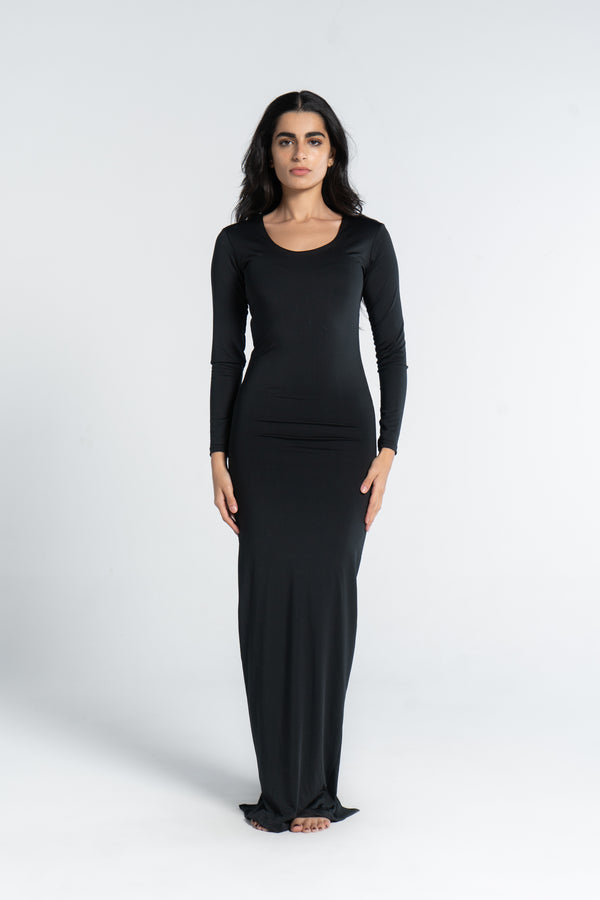
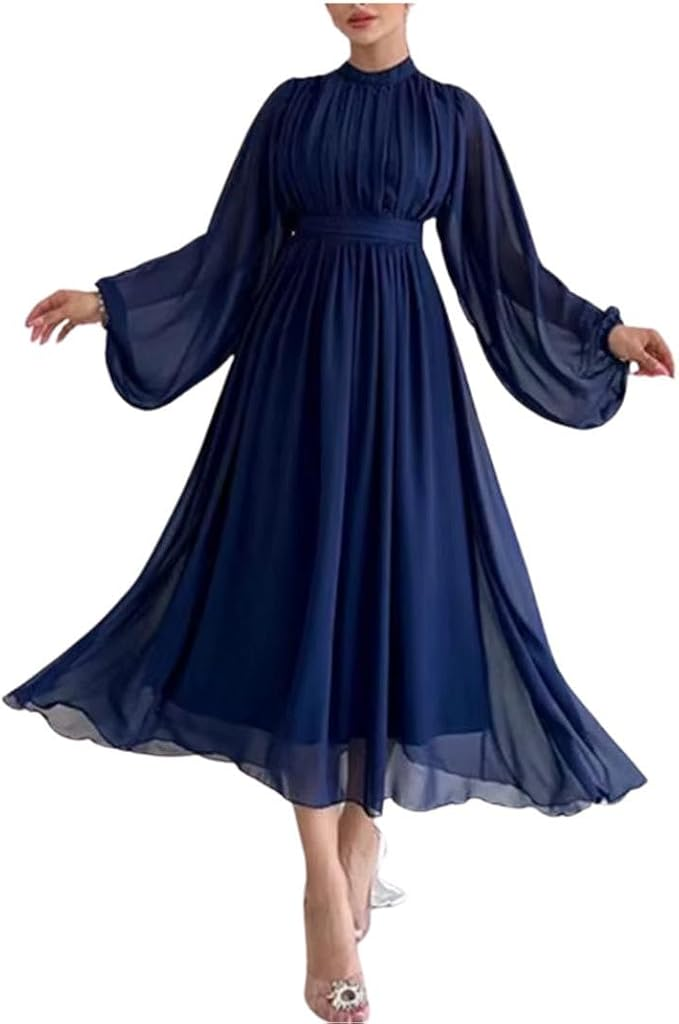
Add files via upload

diff --git a/script.js b/script.js
@@ -66,7 +66,7 @@ const products = [
         price: 199.99,
         originalPrice: 249.99,
         category: "men",
-        image: "https://images.unsplash.com/photo-1551028719-00167b16eac5?w=400&h=500&fit=crop",
+        image: "Product Image/جاكت.jpg",
         badge: "محدود",
         rating: 4.9,
         reviews: 89
@@ -86,7 +86,7 @@ const products = [
         price: 299.99,
         originalPrice: 399.99,
         category: "men",
-        image: "https://images.unsplash.com/photo-1594938298603-c8148c4dae35?w=400&h=500&fit=crop",
+        image: "Product Image/بدلة رجالي.jpg",
         badge: "عرض خاص",
         rating: 4.8,
         reviews: 56
@@ -104,10 +104,10 @@ const products = [
     },
     {
         id: 11,
-        name: "كنزة أطفال",
+        name: "سويت شيرت أطفال",
         price: 45.99,
         category: "kids",
-        image: "https://images.unsplash.com/photo-1519457431-44ccd64a579b?w=400&h=500&fit=crop",
+        image: "Product Image/سويت شيرت.jpg",
         badge: "شتوي",
         rating: 4.3,
         reviews: 19
@@ -117,7 +117,7 @@ const products = [
         name: "قميص رجالي كاجوال",
         price: 79.99,
         category: "men",
-        image: "https://images.unsplash.com/photo-1602810318383-e386cc2a3ccf?w=400&h=500&fit=crop",
+        image: "Product Image/قميص كاجول.jpg",
         rating: 4.4,
         reviews: 38
     },
@@ -127,7 +127,7 @@ const products = [
         price: 99.99,
         originalPrice: 129.99,
         category: "women",
-        image: "https://images.unsplash.com/photo-1541099649105-f69ad21f3246?w=400&h=500&fit=crop",
+        image: "Product Image/بنطلون جينز نسائي.jpg",
         badge: "الأكثر مبيعاً",
         rating: 4.7,
         reviews: 78
@@ -137,25 +137,25 @@ const products = [
         name: "حذاء أطفال رياضي",
         price: 65.99,
         category: "kids",
-        image: "https://images.unsplash.com/photo-1542291026-7eec264c27ff?w=400&h=500&fit=crop",
+        image: "Product Image/حذاء.jpg",
         badge: "جديد",
         rating: 4.5,
         reviews: 24
     },
     {
         id: 15,
-        name: "سواريت رجالي",
+        name: "بلوفر رجالي",
         price: 159.99,
         originalPrice: 209.99,
         category: "men",
-        image: "https://images.unsplash.com/photo-1591047139829-d91aecb6caea?w=400&h=500&fit=crop",
+        image: "Product Image/بلوفر.jpg",
         badge: "عرض",
         rating: 4.6,
         reviews: 31
     },
     {
         id: 16,
-        name: "فستان",
+        name: "فستان ميدي",
         price: 249.99,
         originalPrice: 329.99,
         category: "women",
@@ -166,21 +166,21 @@ const products = [
     },
     {
         id: 17,
-        name: "ملابس سباحة أطفال",
+        name: "بدلة سباحة أطفال",
         price: 35.99,
         category: "kids",
-        image: "https://images.unsplash.com/photo-1519457431-44ccd64a579b?w=400&h=500&fit=crop",
+        image: "Product Image/ملابس سباحة اطفالي.jpg",
         badge: "صيفي",
         rating: 4.2,
         reviews: 15
     },
     {
         id: 18,
-        name: "معطف شتوي رجالي",
+        name: "جاكت كوخ رجالي",
         price: 349.99,
         originalPrice: 449.99,
         category: "men",
-        image: "https://images.unsplash.com/photo-1551028719-00167b16eac5?w=400&h=500&fit=crop",
+        image: "Product Image/بالطو.jpg",
         badge: "محدود",
         rating: 4.8,
         reviews: 47
@@ -190,7 +190,7 @@ const products = [
         name: "شال نسائي",
         price: 29.99,
         category: "women",
-        image: "https://images.unsplash.com/photo-1548036328-c9fa89d128fa?w=400&h=500&fit=crop",
+        image: "Product Image/شال.jpg",
         rating: 4.3,
         reviews: 29
     },
@@ -199,7 +199,7 @@ const products = [
         name: "طاقية أطفال",
         price: 19.99,
         category: "kids",
-        image: "https://images.unsplash.com/photo-1523381134737-8e0e921956bd?w=400&h=500&fit=crop",
+        image: "Product Image/طاقية.jpg",
         badge: "جديد",
         rating: 4.1,
         reviews: 22
@@ -210,7 +210,7 @@ const products = [
         price: 89.99,
         originalPrice: 119.99,
         category: "men",
-        image: "https://images.unsplash.com/photo-1553062407-98eeb64c6a62?w=400&h=500&fit=crop",
+        image: "Product Image/حقيبة رجالي.jpg",
         badge: "عرض",
         rating: 4.5,
         reviews: 41
@@ -220,7 +220,7 @@ const products = [
         name: "حذاء كعب عالي",
         price: 129.99,
         category: "women",
-        image: "https://images.unsplash.com/photo-1543163521-1bf539c55dd2?w=400&h=500&fit=crop",
+        image: "Product Image/كعب.jpg",
         badge: "أنيق",
         rating: 4.7,
         reviews: 58
@@ -230,7 +230,7 @@ const products = [
         name: "حقيبة ظهر أطفال",
         price: 39.99,
         category: "kids",
-        image: "https://images.unsplash.com/photo-1553062407-98eeb64c6a62?w=400&h=500&fit=crop",
+        image: "Product Image/حقيبة.jpg",
         rating: 4.4,
         reviews: 17
     },
@@ -240,7 +240,7 @@ const products = [
         price: 49.99,
         originalPrice: 69.99,
         category: "men",
-        image: "https://images.unsplash.com/photo-1572635196237-14b3f281503f?w=400&h=500&fit=crop",
+        image: "Product Image/نظارة.jpg",
         badge: "صيفي",
         rating: 4.6,
         reviews: 33

diff --git a/faq.html b/faq.html
@@ -479,10 +479,10 @@
                 <div class="footer-section">
                     <h3>تابعنا</h3>
                     <div class="social-icons">
-                        <a href="#"><i class="fab fa-facebook"></i></a>
-                        <a href="#"><i class="fab fa-twitter"></i></a>
-                        <a href="#"><i class="fab fa-instagram"></i></a>
-                        <a href="#"><i class="fab fa-tiktok"></i></a>
+                        <a href="https://www.facebook.com/share/17KCqhuJE2/"><i class="fab fa-facebook"></i></a>
+                        <a href="https://x.com/_MohsenNady_"><i class="fab fa-twitter"></i></a>
+                        <a href="https://www.instagram.com/mohsen_nady_111?igsh=dzluYWIzdmtlb3A3"><i class="fab fa-instagram"></i></a>
+                        <a href="https://www.tiktok.com/@mohsen_nady?_r=1&_t=ZS-945EqpImLYu"><i class="fab fa-tiktok"></i></a>
                     </div>
                     <div class="newsletter">
                         <input type="email" placeholder="اشترك في النشرة البريدية">

diff --git a/login.html b/login.html
@@ -208,10 +208,10 @@
                 <div class="footer-section">
                     <h3>تابعنا</h3>
                     <div class="social-icons">
-                        <a href="#"><i class="fab fa-facebook"></i></a>
-                        <a href="#"><i class="fab fa-twitter"></i></a>
-                        <a href="#"><i class="fab fa-instagram"></i></a>
-                        <a href="#"><i class="fab fa-tiktok"></i></a>
+                        <a href="https://www.facebook.com/share/17KCqhuJE2/"><i class="fab fa-facebook"></i></a>
+                        <a href="https://x.com/_MohsenNady_"><i class="fab fa-twitter"></i></a>
+                        <a href="https://www.instagram.com/mohsen_nady_111?igsh=dzluYWIzdmtlb3A3"><i class="fab fa-instagram"></i></a>
+                        <a href="https://www.tiktok.com/@mohsen_nady?_r=1&_t=ZS-945EqpImLYu"><i class="fab fa-tiktok"></i></a>
                     </div>
                     <div class="newsletter">
                         <input type="email" placeholder="اشترك في النشرة البريدية">

diff --git a/register.html b/register.html
@@ -243,10 +243,10 @@
                 <div class="footer-section">
                     <h3>تابعنا</h3>
                     <div class="social-icons">
-                        <a href="#"><i class="fab fa-facebook"></i></a>
-                        <a href="#"><i class="fab fa-twitter"></i></a>
-                        <a href="#"><i class="fab fa-instagram"></i></a>
-                        <a href="#"><i class="fab fa-tiktok"></i></a>
+                        <a href="https://www.facebook.com/share/17KCqhuJE2/"><i class="fab fa-facebook"></i></a>
+                        <a href="https://x.com/_MohsenNady_"><i class="fab fa-twitter"></i></a>
+                        <a href="https://www.instagram.com/mohsen_nady_111?igsh=dzluYWIzdmtlb3A3"><i class="fab fa-instagram"></i></a>
+                        <a href="https://www.tiktok.com/@mohsen_nady?_r=1&_t=ZS-945EqpImLYu"><i class="fab fa-tiktok"></i></a>
                     </div>
                     <div class="newsletter">
                         <input type="email" placeholder="اشترك في النشرة البريدية">

diff --git a/return.html b/return.html
@@ -364,10 +364,10 @@
                 <div class="footer-section">
                     <h3>تابعنا</h3>
                     <div class="social-icons">
-                        <a href="#"><i class="fab fa-facebook"></i></a>
-                        <a href="#"><i class="fab fa-twitter"></i></a>
-                        <a href="#"><i class="fab fa-instagram"></i></a>
-                        <a href="#"><i class="fab fa-tiktok"></i></a>
+                        <a href="https://www.facebook.com/share/17KCqhuJE2/"><i class="fab fa-facebook"></i></a>
+                        <a href="https://x.com/_MohsenNady_"><i class="fab fa-twitter"></i></a>
+                        <a href="https://www.instagram.com/mohsen_nady_111?igsh=dzluYWIzdmtlb3A3"><i class="fab fa-instagram"></i></a>
+                        <a href="https://www.tiktok.com/@mohsen_nady?_r=1&_t=ZS-945EqpImLYu"><i class="fab fa-tiktok"></i></a>
                     </div>
                     <div class="newsletter">
                         <input type="email" placeholder="اشترك في النشرة البريدية">

diff --git a/shipping.html b/shipping.html
@@ -336,10 +336,10 @@
                 <div class="footer-section">
                     <h3>تابعنا</h3>
                     <div class="social-icons">
-                        <a href="#"><i class="fab fa-facebook"></i></a>
-                        <a href="#"><i class="fab fa-twitter"></i></a>
-                        <a href="#"><i class="fab fa-instagram"></i></a>
-                        <a href="#"><i class="fab fa-tiktok"></i></a>
+                        <a href="https://www.facebook.com/share/17KCqhuJE2/"><i class="fab fa-facebook"></i></a>
+                        <a href="https://x.com/_MohsenNady_"><i class="fab fa-twitter"></i></a>
+                        <a href="https://www.instagram.com/mohsen_nady_111?igsh=dzluYWIzdmtlb3A3"><i class="fab fa-instagram"></i></a>
+                        <a href="https://www.tiktok.com/@mohsen_nady?_r=1&_t=ZS-945EqpImLYu"><i class="fab fa-tiktok"></i></a>
                     </div>
                     <div class="newsletter">
                         <input type="email" placeholder="اشترك في النشرة البريدية">

diff --git a/tracking.html b/tracking.html
@@ -396,10 +396,10 @@
                 <div class="footer-section">
                     <h3>تابعنا</h3>
                     <div class="social-icons">
-                        <a href="#"><i class="fab fa-facebook"></i></a>
-                        <a href="#"><i class="fab fa-twitter"></i></a>
-                        <a href="#"><i class="fab fa-instagram"></i></a>
-                        <a href="#"><i class="fab fa-tiktok"></i></a>
+                        <a href="https://www.facebook.com/share/17KCqhuJE2/"><i class="fab fa-facebook"></i></a>
+                        <a href="https://x.com/_MohsenNady_"><i class="fab fa-twitter"></i></a>
+                        <a href="https://www.instagram.com/mohsen_nady_111?igsh=dzluYWIzdmtlb3A3"><i class="fab fa-instagram"></i></a>
+                        <a href="https://www.tiktok.com/@mohsen_nady?_r=1&_t=ZS-945EqpImLYu"><i class="fab fa-tiktok"></i></a>
                     </div>
                     <div class="newsletter">
                         <input type="email" placeholder="اشترك في النشرة البريدية">

diff --git a/index.html b/index.html
@@ -249,9 +249,9 @@
                     <h3>تابعنا</h3>
                     <div class="social-icons">
                         <a href="https://www.facebook.com/share/1FooUXQ52m/"><i class="fab fa-facebook"></i></a>
-                        <a href="#"><i class="fab fa-twitter"></i></a>
-                        <a href="#"><i class="fab fa-instagram"></i></a>
-                        <a href="#"><i class="fab fa-tiktok"></i></a>
+                        <a href="https://x.com/_MohsenNady_"><i class="fab fa-twitter"></i></a>
+                        <a href="https://www.instagram.com/mohsen_nady_111?igsh=dzluYWIzdmtlb3A3"><i class="fab fa-instagram"></i></a>
+                        <a href="https://www.tiktok.com/@mohsen_nady?_r=1&_t=ZS-945EqpImLYu"><i class="fab fa-tiktok"></i></a>
                     </div>
                     <div class="newsletter">
                         <input type="email" placeholder="اشترك في النشرة البريدية">
